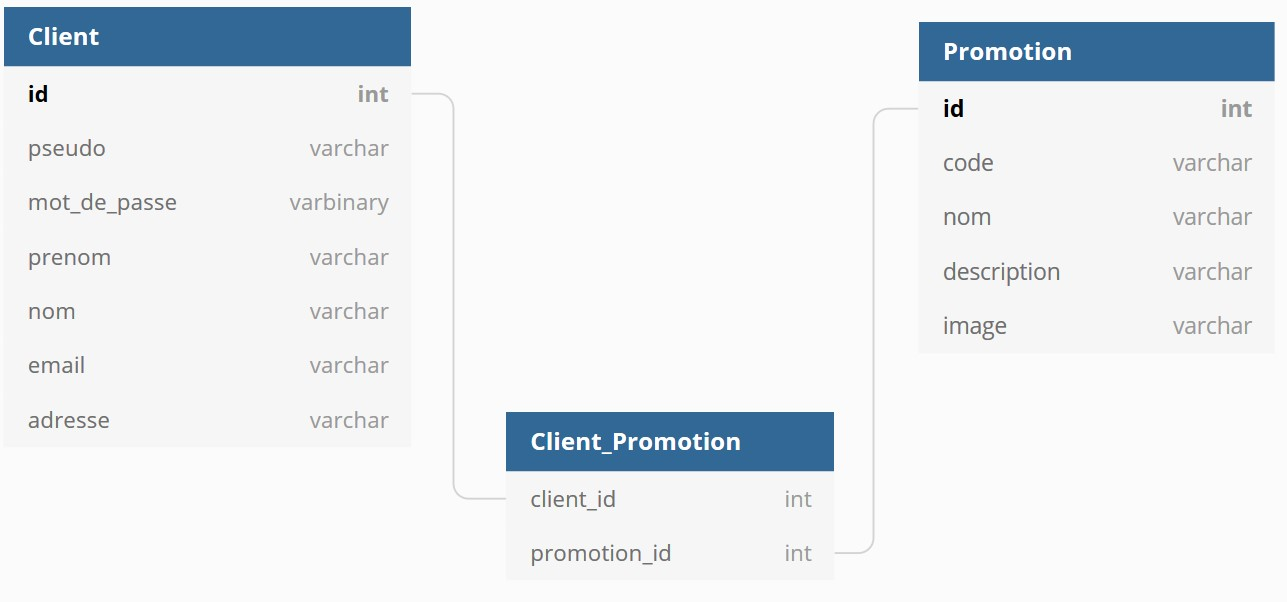
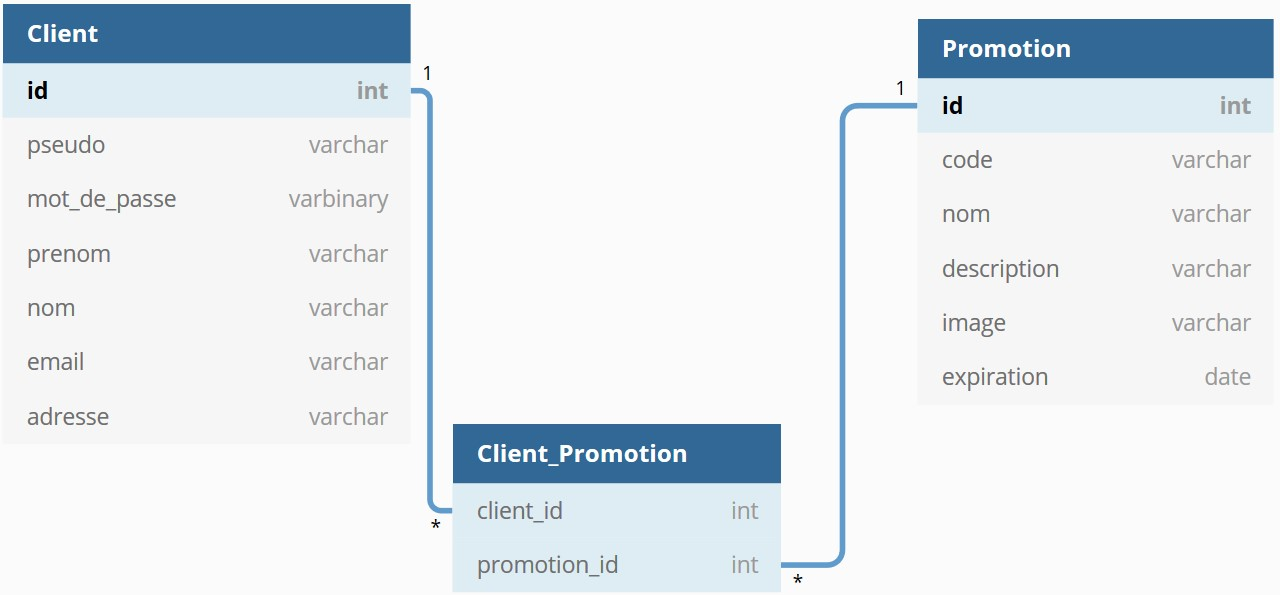
Ajout de "expiration" dans l'objet Promotion de android

diff --git a/Android/ProjetMSPR/app/src/main/java/com/example/projetmspr/MainActivity.java b/Android/ProjetMSPR/app/src/main/java/com/example/projetmspr/MainActivity.java
@@ -58,7 +58,7 @@ public class MainActivity extends AppCompatActivity implements View.OnClickListe
          *
          */
         Retrofit retrofit = new Retrofit.Builder()
-                .baseUrl("http://10.0.2.2:8080/")
+                .baseUrl("http://192.168.1.32:8080/")
                 .addConverterFactory(GsonConverterFactory.create())
                 .build();
 
@@ -73,20 +73,8 @@ public class MainActivity extends AppCompatActivity implements View.OnClickListe
                     textViewResult.setText("Code: " + response.code());
                     return;
                 }
-
                 promotions = response.body();
                 listMutableLiveData.setValue(promotions);
-            /*    for(Promotion Promotion : Promotions) {
-                    String content = "";
-                    content += "ID: " + Promotion.getId() + "\n";
-                    content += "Code: " + Promotion.getCode() + "\n";
-                    content += "Nom: " + Promotion.getNom() + "\n";
-                    content += "Description: " + Promotion.getDescription() + "\n";
-
-                    textViewResult.append(content);
-                }*/
-
-
             }
 
             @Override
@@ -116,7 +104,6 @@ public class MainActivity extends AppCompatActivity implements View.OnClickListe
                 startActivity(intent);
             }
         });
-
 
     }
 

diff --git a/WebService/MSPR Application android/src/main/java/fr/epsi/android/controleur/PromotionControleur.java b/WebService/MSPR Application android/src/main/java/fr/epsi/android/controleur/PromotionControleur.java
@@ -44,14 +44,18 @@ public class PromotionControleur {
 		Promotion promotion1 = new Promotion();
 		promotion1.setId(1);
 		promotion1.setCode("IOBI7488");
+		promotion1.setImage("basket");
 		promotion1.setNom("Promotion test");
 		promotion1.setDescription("Produit test");
+		promotion1.setExpiration("2019-12-01");
 		
 		Promotion promotion2 = new Promotion();
 		promotion2.setId(2);
 		promotion2.setCode("IOFAIO213");
+		promotion2.setImage("polo");
 		promotion2.setNom("Promotion test 2");
 		promotion2.setDescription("2ème produit test");
+		promotion2.setExpiration("2020-12-31");
 		
 		List<Promotion> listPromotion = new ArrayList<Promotion>();
 		listPromotion.add(promotion1);

diff --git a/Android/ProjetMSPR/app/src/main/java/com/example/webservice/GoStyleApi.java b/Android/ProjetMSPR/app/src/main/java/com/example/webservice/GoStyleApi.java
@@ -7,6 +7,6 @@ import retrofit2.http.GET;
 
 public interface GoStyleApi {
 
-    @GET("mspr/gostyle/liste-promotion")
+    @GET("mspr/gostyle/test")
     Call<List<Promotion>> getPromotion();
 }

diff --git a/Android/ProjetMSPR/app/src/main/java/com/example/webservice/Promotion.java b/Android/ProjetMSPR/app/src/main/java/com/example/webservice/Promotion.java
@@ -1,7 +1,6 @@
 package com.example.webservice;
 
 import java.io.Serializable;
-import java.util.Date;
 
 public class Promotion implements Serializable {
 
